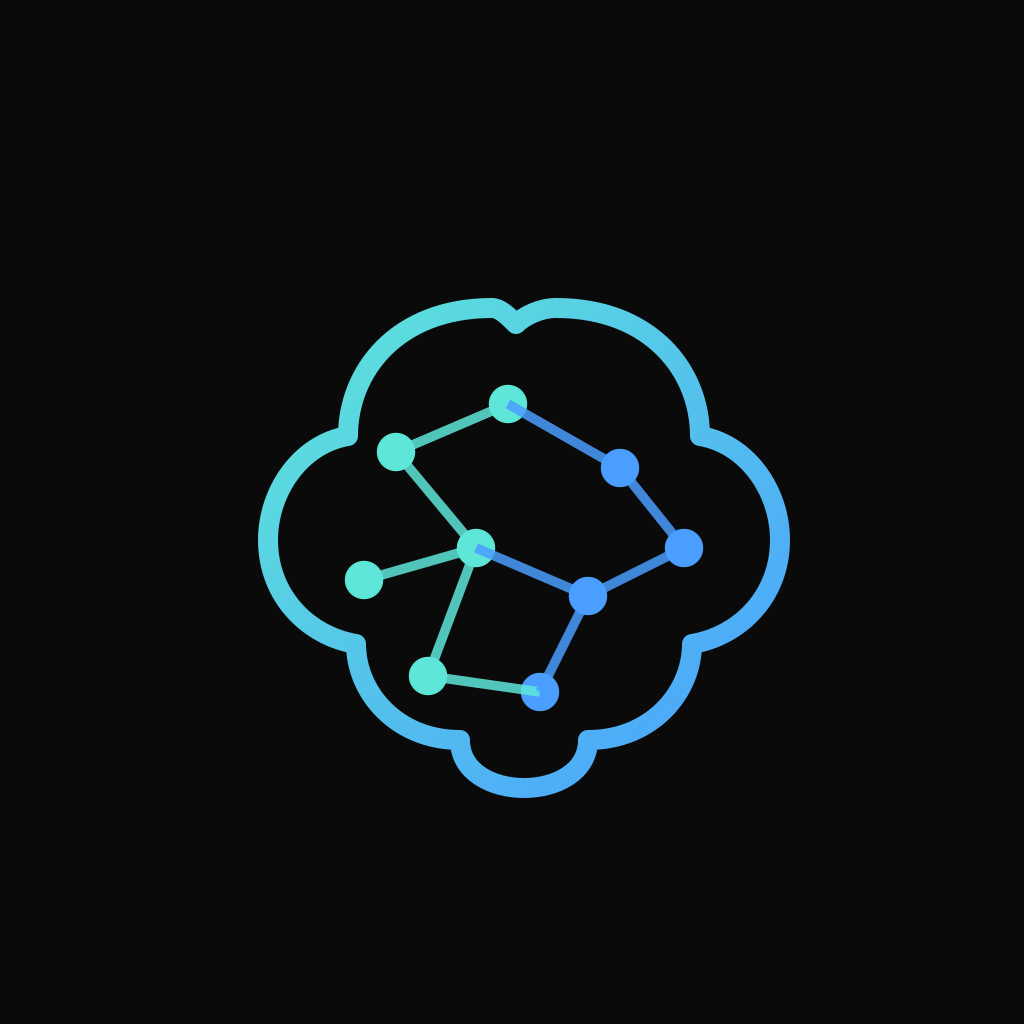
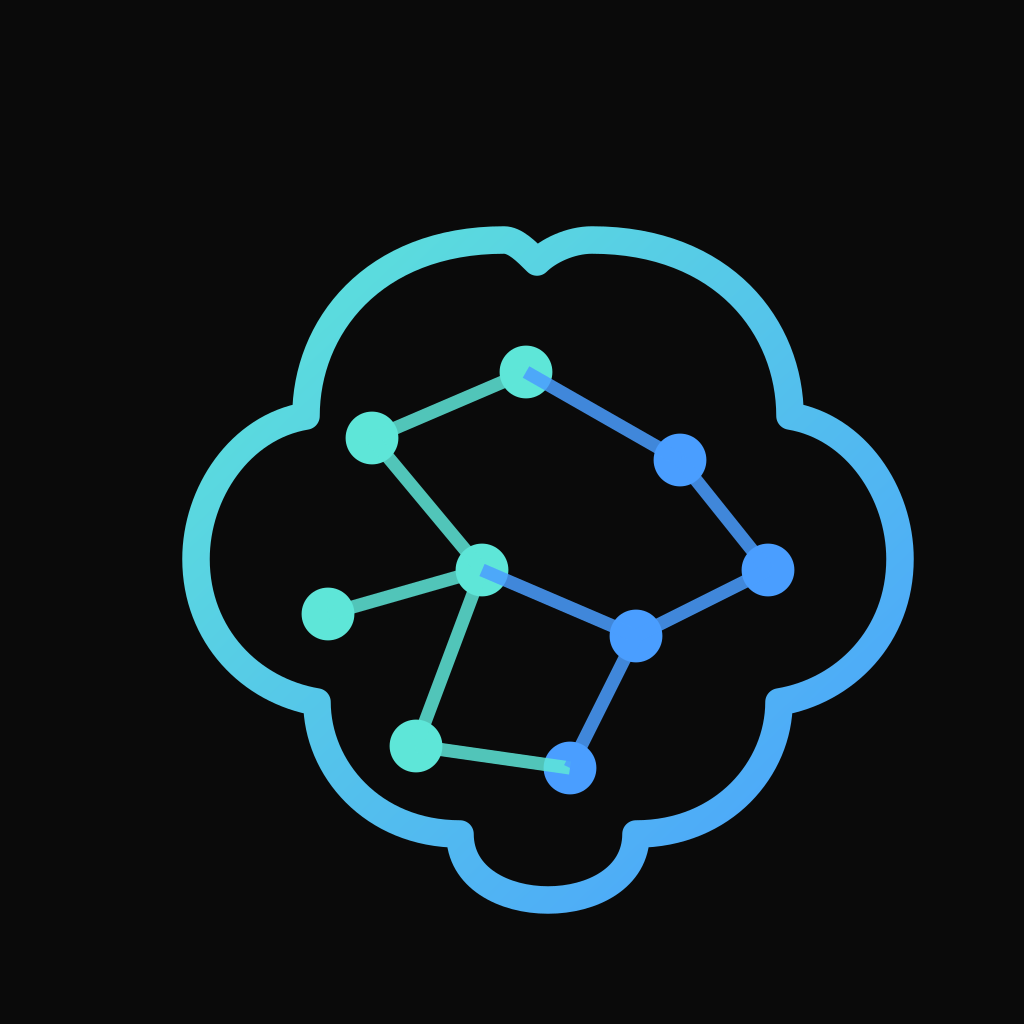
Fix blank screen: remove redundant auth guard race condition in tabs layout

Changed region(s): [[0.1562, 0.2188, 0.9062, 0.9062]]

diff --git a/frontend/app/(tabs)/_layout.tsx b/frontend/app/(tabs)/_layout.tsx
@@ -1,15 +1,15 @@
 /**
  * app/(tabs)/_layout.tsx — Tab bar layout
  *
- * Only rendered when the user is inside the authenticated tab area.
- * Has its own auth guard — if somehow a user lands here without a token
- * (e.g. direct deep link), they get bounced to /login.
+ * Auth is handled entirely by app/index.tsx — no token means the user
+ * never reaches this layout in the first place. A second guard here
+ * creates a race condition: the 5s safety timer fires before SecureStore
+ * resolves on slower devices, kicking the user back to /login mid-session
+ * and leaving a blank screen.
  */
-import { useEffect, useState } from 'react';
-import { Tabs, router } from 'expo-router';
-import { View, ActivityIndicator, StyleSheet } from 'react-native';
+import { Tabs } from 'expo-router';
+import { View, StyleSheet } from 'react-native';
 import { Ionicons } from '@expo/vector-icons';
-import { storage } from '../../src/utils/storage';
 import { COLORS } from '../../src/theme/colors';
 
 type TabDef = {
@@ -28,49 +28,6 @@ const TABS: TabDef[] = [
 ];
 
 export default function TabsLayout() {
-  const [authChecked, setAuthChecked] = useState(false);
-
-  useEffect(() => {
-    let settled = false;
-    const safetyTimer = setTimeout(() => {
-      if (!settled) {
-        settled = true;
-        router.replace('/login');
-      }
-    }, 5000);
-
-    (async () => {
-      try {
-        const token = await storage.getItem('neurofit_token');
-        if (settled) return;
-        if (!token) {
-          settled = true;
-          clearTimeout(safetyTimer);
-          router.replace('/login');
-          return;
-        }
-        settled = true;
-        clearTimeout(safetyTimer);
-        setAuthChecked(true);
-      } catch {
-        if (settled) return;
-        settled = true;
-        clearTimeout(safetyTimer);
-        router.replace('/login');
-      }
-    })();
-
-    return () => { settled = true; clearTimeout(safetyTimer); };
-  }, []);
-
-  if (!authChecked) {
-    return (
-      <View style={styles.loading}>
-        <ActivityIndicator color={COLORS.primaryGreen} size="large" />
-      </View>
-    );
-  }
-
   return (
     <Tabs
       screenOptions={{
@@ -119,12 +76,6 @@ export default function TabsLayout() {
 }
 
 const styles = StyleSheet.create({
-  loading: {
-    flex: 1,
-    backgroundColor: COLORS.background,
-    justifyContent: 'center',
-    alignItems: 'center',
-  },
   iconWrap: { padding: 4 },
   activeWrap: {
     padding: 6,

diff --git a/frontend/app/_layout.tsx b/frontend/app/_layout.tsx
@@ -1,15 +1,15 @@
 /**
  * app/(tabs)/_layout.tsx — Tab bar layout
  *
- * Only rendered when the user is inside the authenticated tab area.
- * Has its own auth guard — if somehow a user lands here without a token
- * (e.g. direct deep link), they get bounced to /login.
+ * Auth is handled entirely by app/index.tsx — no token means the user
+ * never reaches this layout in the first place. A second guard here
+ * creates a race condition: the 5s safety timer fires before SecureStore
+ * resolves on slower devices, kicking the user back to /login mid-session
+ * and leaving a blank screen.
  */
-import { useEffect, useState } from 'react';
-import { Tabs, router } from 'expo-router';
-import { View, ActivityIndicator, StyleSheet } from 'react-native';
+import { Tabs } from 'expo-router';
+import { View, StyleSheet } from 'react-native';
 import { Ionicons } from '@expo/vector-icons';
-import { storage } from '../src/utils/storage';
 import { COLORS } from '../src/theme/colors';
 
 type TabDef = {
@@ -28,49 +28,6 @@ const TABS: TabDef[] = [
 ];
 
 export default function TabsLayout() {
-  const [authChecked, setAuthChecked] = useState(false);
-
-  useEffect(() => {
-    let settled = false;
-    const safetyTimer = setTimeout(() => {
-      if (!settled) {
-        settled = true;
-        router.replace('/login');
-      }
-    }, 5000);
-
-    (async () => {
-      try {
-        const token = await storage.getItem('neurofit_token');
-        if (settled) return;
-        if (!token) {
-          settled = true;
-          clearTimeout(safetyTimer);
-          router.replace('/login');
-          return;
-        }
-        settled = true;
-        clearTimeout(safetyTimer);
-        setAuthChecked(true);
-      } catch {
-        if (settled) return;
-        settled = true;
-        clearTimeout(safetyTimer);
-        router.replace('/login');
-      }
-    })();
-
-    return () => { settled = true; clearTimeout(safetyTimer); };
-  }, []);
-
-  if (!authChecked) {
-    return (
-      <View style={styles.loading}>
-        <ActivityIndicator color={COLORS.primaryGreen} size="large" />
-      </View>
-    );
-  }
-
   return (
     <Tabs
       screenOptions={{
@@ -119,12 +76,6 @@ export default function TabsLayout() {
 }
 
 const styles = StyleSheet.create({
-  loading: {
-    flex: 1,
-    backgroundColor: COLORS.background,
-    justifyContent: 'center',
-    alignItems: 'center',
-  },
   iconWrap: { padding: 4 },
   activeWrap: {
     padding: 6,